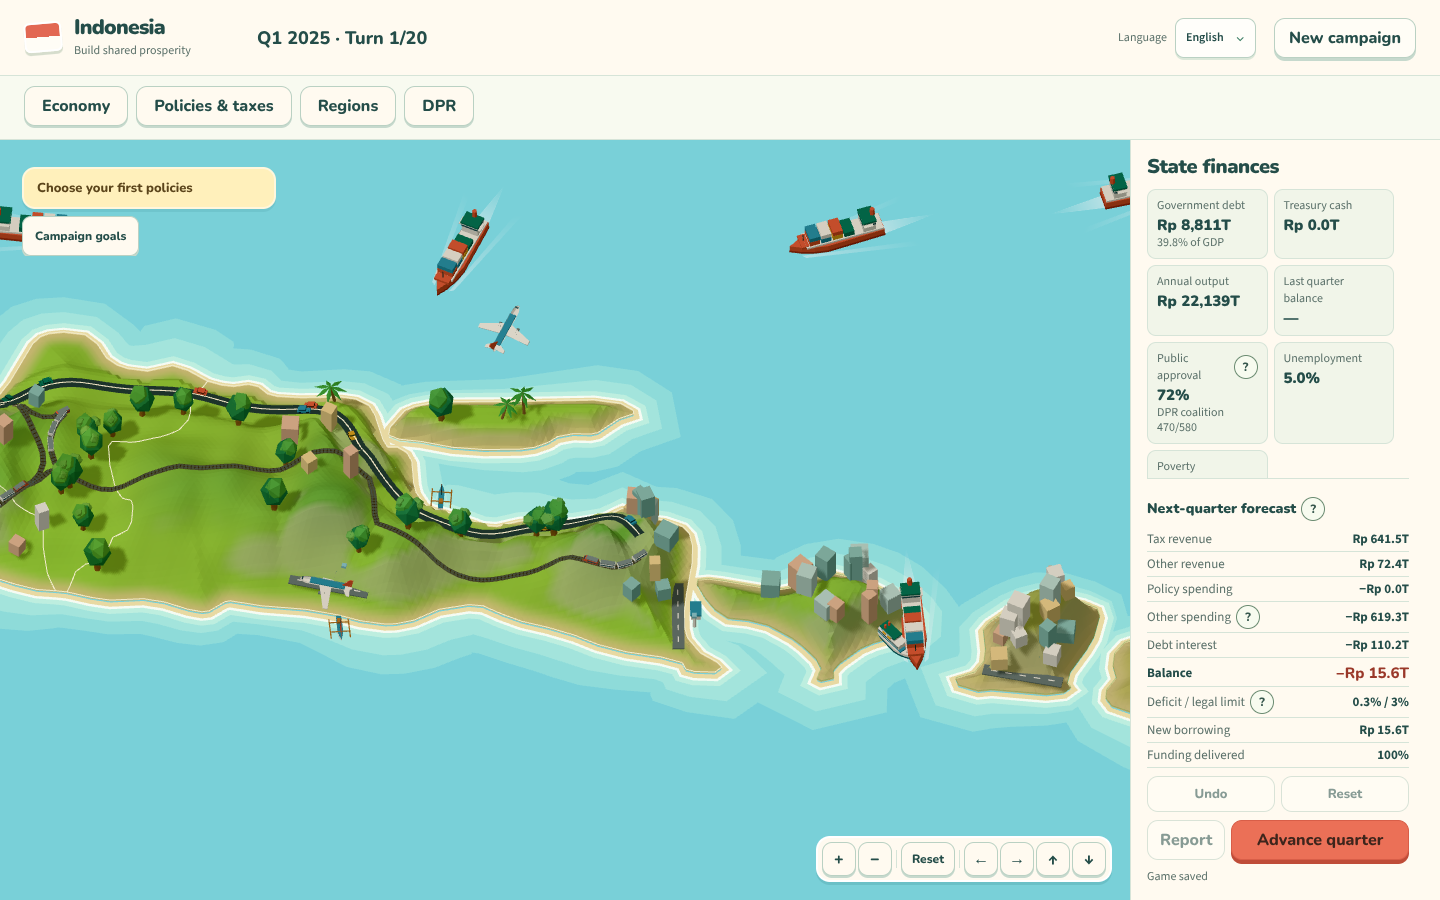
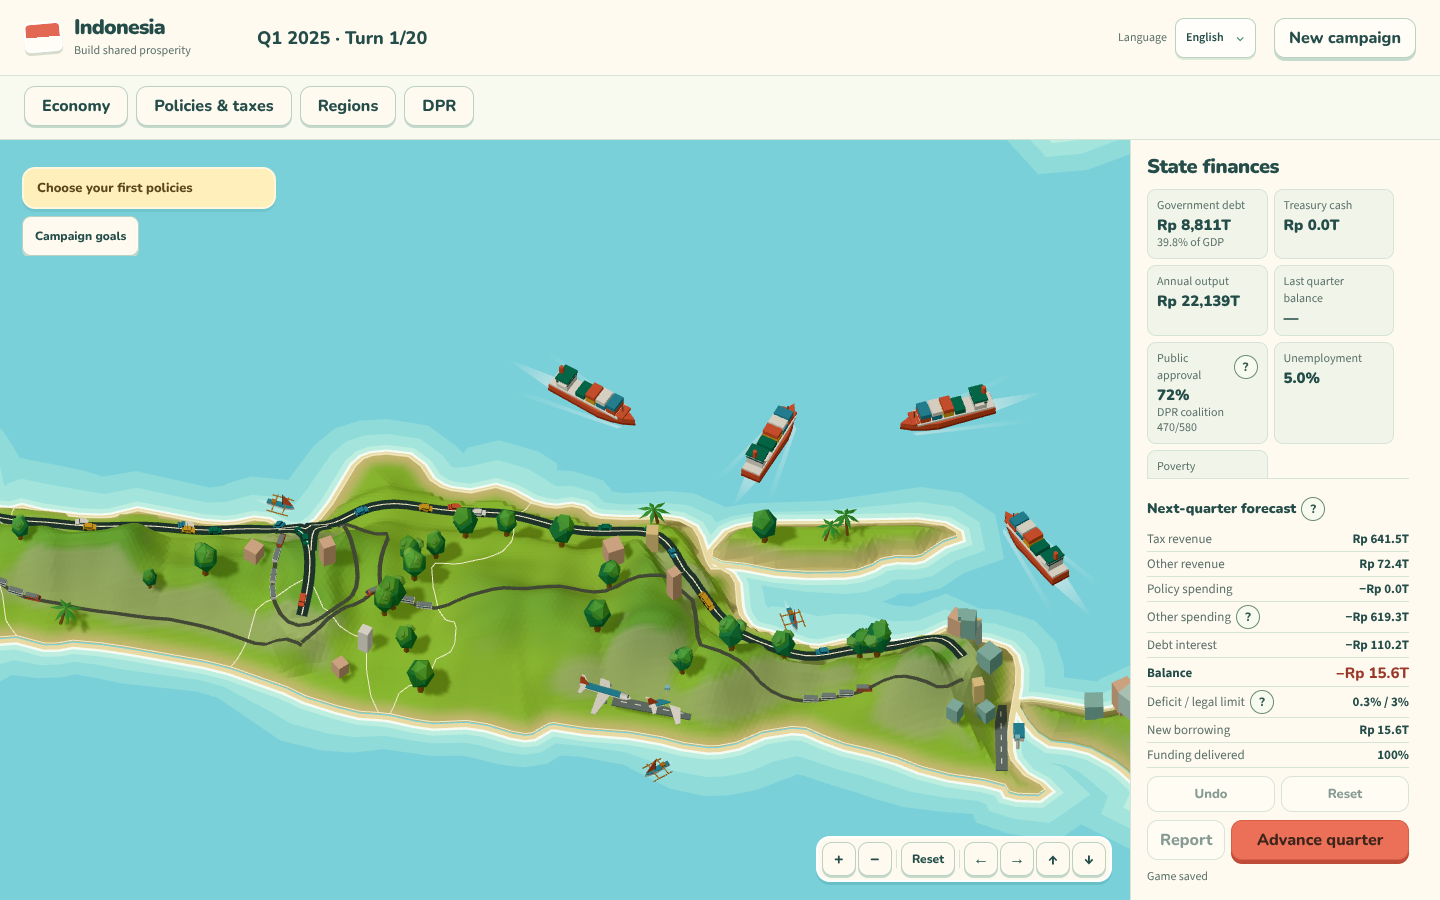
Simplify railway track into a slim, smooth line
Drop the sleepers and wide ballast bed: railways are now a slim pale bed
with two fine rails, and their routes are ironed out harder than roads so
they run in long, gentle curves.

Claude-Session: https://claude.ai/code/session_019p4eNyMGjnVbunwvbhLvUN

diff --git a/src/TransportScene.tsx b/src/TransportScene.tsx
@@ -44,82 +44,28 @@ const smooth = (x: number) => {
   return t * t * (3 - 2 * t);
 };
 
-/** Cross ties laid every `spacing` along a line, for railway sleepers. */
-function addTies(
-  strip: Strip,
-  line: RailLine,
-  from: number,
-  to: number,
-  spacing: number,
-  half: number,
-  width: number,
-  lift: number,
-) {
-  const start = line.distances[from],
-    end = line.distances[to];
-  const at = new Vector3(),
-    ahead = new Vector3();
-  for (let d = start + spacing / 2; d < end; d += spacing) {
-    pointAlong(line, d, at);
-    pointAlong(line, Math.min(end, d + 0.02), ahead);
-    const dx = ahead.x - at.x,
-      dz = ahead.z - at.z,
-      length = Math.hypot(dx, dz) || 1;
-    // Along the track (t) and across it (n).
-    const tx = (dx / length) * width,
-      tz = (dz / length) * width,
-      nx = (-dz / length) * half,
-      nz = (dx / length) * half;
-    const y = at.y + lift;
-    strip.positions.push(
-      at.x - tx + nx,
-      y,
-      at.z - tz + nz,
-      at.x - tx - nx,
-      y,
-      at.z - tz - nz,
-      at.x + tx + nx,
-      y,
-      at.z + tz + nz,
-      at.x - tx - nx,
-      y,
-      at.z - tz - nz,
-      at.x + tx - nx,
-      y,
-      at.z + tz - nz,
-      at.x + tx + nx,
-      y,
-      at.z + tz + nz,
-    );
-  }
-}
-
-/** Steel rails on sleepers over a pale ballast bed, laid apart from the roads. */
+/** A slim ballast bed with two fine rails, laid apart from the roads. */
 function Railways({ lines }: { lines: RailLine[] }) {
   const geometry = useMemo(() => {
     const bed: Strip = { positions: [] },
-      ties: Strip = { positions: [] },
       steel: Strip = { positions: [] };
     // Where lines meet they share track; lay it once.
     const ranges = unsharedRanges(lines, 0.1, 3);
     lines.forEach((line, index) => {
       for (const [from, to] of ranges[index]) {
-        addRibbon(bed, line, from, to, 0.038, 0, RAIL_LIFT);
-        addTies(ties, line, from, to, 0.045, 0.028, 0.007, RAIL_LIFT + 0.002);
-        addRibbon(steel, line, from, to, 0.0035, 0.016, RAIL_LIFT + 0.004);
-        addRibbon(steel, line, from, to, 0.0035, -0.016, RAIL_LIFT + 0.004);
+        addRibbon(bed, line, from, to, 0.026, 0, RAIL_LIFT);
+        addRibbon(steel, line, from, to, 0.003, 0.0105, RAIL_LIFT + 0.004);
+        addRibbon(steel, line, from, to, 0.003, -0.0105, RAIL_LIFT + 0.004);
       }
     });
     return {
       bed: stripGeometry(bed),
-      ties: stripGeometry(ties),
       steel: stripGeometry(steel),
     };
   }, [lines]);
   useEffect(
     () => () => {
       geometry.bed?.dispose();
-      geometry.ties?.dispose();
       geometry.steel?.dispose();
     },
     [geometry],
@@ -129,7 +75,7 @@ function Railways({ lines }: { lines: RailLine[] }) {
       {geometry.bed && (
         <mesh geometry={geometry.bed} renderOrder={2}>
           <meshLambertMaterial
-            color="#cdbd9f"
+            color="#c4b8a0"
             side={DoubleSide}
             polygonOffset
             polygonOffsetFactor={-2}
@@ -137,19 +83,8 @@ function Railways({ lines }: { lines: RailLine[] }) {
           />
         </mesh>
       )}
-      {geometry.ties && (
-        <mesh geometry={geometry.ties} renderOrder={3}>
-          <meshLambertMaterial
-            color="#8a6a4f"
-            side={DoubleSide}
-            polygonOffset
-            polygonOffsetFactor={-3}
-            polygonOffsetUnits={-3}
-          />
-        </mesh>
-      )}
       {geometry.steel && (
-        <mesh geometry={geometry.steel} renderOrder={4}>
+        <mesh geometry={geometry.steel} renderOrder={3}>
           <meshBasicMaterial
             color="#55625f"
             side={DoubleSide}

diff --git a/src/roadNetwork.ts b/src/roadNetwork.ts
@@ -413,11 +413,12 @@ export function routeAwayFromRoads(
   if (!grid) return null;
   grid[0] = from.clone();
   grid[grid.length - 1] = to.clone();
-  return smooth(grid, plan);
+  // Railways take gentler bends than roads, so they are ironed out harder.
+  return smooth(grid, plan, RAIL_RELAX_ROUNDS);
 }
 
 /** Rounds the grid path's corners without leaving the land. */
-function smooth(path: Vector2[], plan: Planner) {
+function smooth(path: Vector2[], plan: Planner, rounds = RELAX_ROUNDS) {
   let points = path;
   for (let round = 0; round < 4; round++) {
     const next: Vector2[] = [points[0]];
@@ -433,11 +434,12 @@ function smooth(path: Vector2[], plan: Planner) {
     next.push(points[points.length - 1]);
     points = next;
   }
-  return relax(points, plan);
+  return relax(points, plan, rounds);
 }
 
 const RELAX_STEP = 0.07;
 const RELAX_ROUNDS = 40;
+const RAIL_RELAX_ROUNDS = 120;
 /**
  * Irons out the grid's staircase: resamples the path evenly, then averages
  * each point with its neighbours so diagonal zig-zags settle into long,
@@ -445,7 +447,7 @@ const RELAX_ROUNDS = 40;
  * them, so they still line up. A point the averaging would push off the
  * land keeps its place.
  */
-function relax(path: Vector2[], plan: Planner) {
+function relax(path: Vector2[], plan: Planner, rounds: number) {
   const even: Vector2[] = [path[0].clone()];
   let carry = 0;
   for (let i = 1; i < path.length; i++) {
@@ -462,7 +464,7 @@ function relax(path: Vector2[], plan: Planner) {
   even.push(path[path.length - 1].clone());
   if (even.length < 3) return path;
   let points = even;
-  for (let round = 0; round < RELAX_ROUNDS; round++) {
+  for (let round = 0; round < rounds; round++) {
     const next = points.map((p) => p.clone());
     for (let i = 1; i < points.length - 1; i++)
       next[i]
